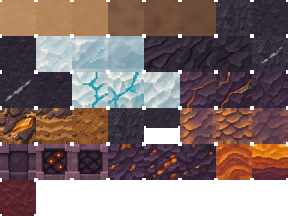
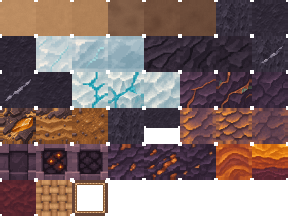
Titã: Esteira de Junco, peça fina de piso sem colisão (v0.146.0)
Etapa 3 do cultivo (ADR 0085): a esteira segue a placa de pressão do
Minecraft sem as regras de pressão. Bloco de 1/16 m na malha do terreno,
sem colisão, alvo da mira só pela faixa fina, exige piso firme (quebrar o
piso a derruba como item) e não bloqueia luz. Receita na Mesa: 3 Hastes
Secas. Ícone provisório gerado por script.

Claude-Session: https://claude.ai/code/session_01KGdgonZQ5RGGnaRzTSYEwp

Changed region(s): [[0.125, 0.8333, 0.375, 1.0]]

diff --git a/src/titan/voxel.ts b/src/titan/voxel.ts
@@ -22,17 +22,17 @@ export const REGION_MIN = REGION_LEGACY.min;
 export const REGION_MAX = REGION_LEGACY.max;
 
 /** Ids de bloco (um byte; 0 = ar). */
-export const T = { AIR: 0, SAND: 1, DAMP_SAND: 2, DARK_ROCK: 3, FROST: 4, LAKE: 5, BEDROCK: 6, LANTERN: 7, VEIN_ROCK: 8, VEIN_FROST: 9, WORKBENCH: 10, EMBER: 11, SLAB: 12, WORKBENCH_90: 13, WORKBENCH_180: 14, WORKBENCH_270: 15, SLAB_TOP: 16, SLAB_DOUBLE: 17, MARCO: 18, MARCO_90: 19, MARCO_180: 20, MARCO_270: 21, PAINEL: 22, PAINEL_Z: 23, VEIN_COPPER: 24, BRAZIER: 25, BRAZIER_LIT: 26, CARAPACE: 27, EMBER_VEIN: 28, EMBER_BLOCK: 29 } as const;
+export const T = { AIR: 0, SAND: 1, DAMP_SAND: 2, DARK_ROCK: 3, FROST: 4, LAKE: 5, BEDROCK: 6, LANTERN: 7, VEIN_ROCK: 8, VEIN_FROST: 9, WORKBENCH: 10, EMBER: 11, SLAB: 12, WORKBENCH_90: 13, WORKBENCH_180: 14, WORKBENCH_270: 15, SLAB_TOP: 16, SLAB_DOUBLE: 17, MARCO: 18, MARCO_90: 19, MARCO_180: 20, MARCO_270: 21, PAINEL: 22, PAINEL_Z: 23, VEIN_COPPER: 24, BRAZIER: 25, BRAZIER_LIT: 26, CARAPACE: 27, EMBER_VEIN: 28, EMBER_BLOCK: 29, MAT: 30 } as const;
 /** Maior id de bloco (o carregamento do save descarta ids acima disto). */
-export const T_MAX = T.EMBER_BLOCK;
+export const T_MAX = T.MAT;
 export type TitanBlock = (typeof T)[keyof typeof T];
 
-export const BLOCK_NAMES: Record<number, string> = { 1: 'Areia ocre', 2: 'Areia úmida', 3: 'Rocha escura', 4: 'Gelo fosco', 5: 'Lago escuro', 6: 'Rocha-mãe', 7: 'Lanterna da margem', 8: 'Rocha com veio', 9: 'Gelo com veio', 10: 'Mesa de Trabalho', 11: 'Brasa de âmbar', 12: 'Laje de rocha', 13: 'Mesa de Trabalho', 14: 'Mesa de Trabalho', 15: 'Mesa de Trabalho', 16: 'Laje de rocha', 17: 'Laje dupla de rocha', 18: 'Marco de Margem', 19: 'Marco de Margem', 20: 'Marco de Margem', 21: 'Marco de Margem', 22: 'Painel de Junco', 23: 'Painel de Junco', 24: 'Veio de Cobre de Duna', 25: 'Braseiro de Rocha', 26: 'Braseiro de Rocha (aceso)', 27: 'Revestimento de Carapaça', 28: 'Veio de Âmbar', 29: 'Bloco de Âmbar Compactado' };
+export const BLOCK_NAMES: Record<number, string> = { 1: 'Areia ocre', 2: 'Areia úmida', 3: 'Rocha escura', 4: 'Gelo fosco', 5: 'Lago escuro', 6: 'Rocha-mãe', 7: 'Lanterna da margem', 8: 'Rocha com veio', 9: 'Gelo com veio', 10: 'Mesa de Trabalho', 11: 'Brasa de âmbar', 12: 'Laje de rocha', 13: 'Mesa de Trabalho', 14: 'Mesa de Trabalho', 15: 'Mesa de Trabalho', 16: 'Laje de rocha', 17: 'Laje dupla de rocha', 18: 'Marco de Margem', 19: 'Marco de Margem', 20: 'Marco de Margem', 21: 'Marco de Margem', 22: 'Painel de Junco', 23: 'Painel de Junco', 24: 'Veio de Cobre de Duna', 25: 'Braseiro de Rocha', 26: 'Braseiro de Rocha (aceso)', 27: 'Revestimento de Carapaça', 28: 'Veio de Âmbar', 29: 'Bloco de Âmbar Compactado', 30: 'Esteira de Junco' };
 
 /** Sólido = colide e esconde as faces vizinhas. Ar, líquido e a lanterna (objeto pequeno que emite luz) não. */
-export const isSolid = (id: number): boolean => id !== T.AIR && id !== T.LAKE && id !== T.LANTERN && !isMarco(id);
+export const isSolid = (id: number): boolean => id !== T.AIR && id !== T.LAKE && id !== T.LANTERN && !isMarco(id) && id !== T.MAT;
 /** Alvo da mira (e do "quebrar"): sólido, lanterna ou Marco de Margem. O líquido e o ar são atravessados. */
-export const isTarget = (id: number): boolean => isSolid(id) || id === T.LANTERN || isMarco(id);
+export const isTarget = (id: number): boolean => isSolid(id) || id === T.LANTERN || isMarco(id) || id === T.MAT;
 /** Bloco que bloqueia a luz de lanterna: sólido, menos o Painel de Junco (a trama tem vãos: a luz atravessa). */
 export const blocksLight = (id: number): boolean => isSolid(id) && !isPanel(id);
 /** Célula ocupada: não aceita colocar nada (sólido ou lanterna). Líquido e ar aceitam. */
@@ -91,7 +91,13 @@ export const PANEL_HEIGHT = 0.944;
 /** Id do painel que fica de frente para o jogador: olhando ao longo de Z (norte/sul) o painel corre ao longo de X; olhando ao longo de X, ao longo de Z. */
 export const panelIdFacing = (yaw: number): number => (Math.abs(Math.cos(yaw)) >= Math.abs(Math.sin(yaw)) ? T.PAINEL : T.PAINEL_Z);
 /** Peça recolhida com um toque longo curto (0,35 s, com anel e sem rachaduras): a lanterna e as peças pequenas da margem (Marco e Painel). */
-export const isCollectBlock = (id: number): boolean => id === T.LANTERN || isMarco(id) || isPanel(id);
+export const isCollectBlock = (id: number): boolean => id === T.LANTERN || isMarco(id) || isPanel(id) || id === T.MAT;
+/**
+ * Esteira de Junco (ADR 0085): peça fina de piso, no modelo das placas de pressão do Minecraft **sem** as regras de pressão: 1/16 m de altura, sem colisão (anda-se por cima, como na
+ * lanterna e no Marco), alvo da mira pela própria caixa, exige face superior sólida abaixo e, sem o apoio, vira item. Faz parte da malha do terreno (topo = trama, laterais = borda).
+ */
+export const MAT_HEIGHT = 0.0625;
+export const isMat = (id: number): boolean => id === T.MAT;
 /** Modelo 3D (instâncias do renderer) deste bloco, ou `null`. `turn` = giro em quartos de volta ao redor de Y. */
 export function modelOf(id: number): { kind: 'workbench' | 'marco' | 'painel'; turn: number } | null {
   if (isWorkbench(id)) return { kind: 'workbench', turn: workbenchTurn(id) };
@@ -121,6 +127,7 @@ const BLOCK_TILES: Record<number, readonly [number, number, number]> = {
   [T.LAKE]: ROCK, // o líquido tem atlas próprio (ADR 0057); este tile só preenche o índice
   [T.VEIN_ROCK]: faces3('06-rocha-com-veio'), [T.VEIN_FROST]: faces3('07-gelo-com-veio'), [T.VEIN_COPPER]: faces3('08-veio-de-cobre-de-duna'), [T.EMBER]: faces3('09-deposito-de-brasa'),
   [T.SLAB]: [tileIndex('11-laje-de-rocha/topo'), tileIndex('11-laje-de-rocha/lateral'), tileIndex('11-laje-de-rocha/topo')], // a lateral tem 32 × 16 e usa a metade de cima do tile
+  [T.MAT]: [tileIndex('20-esteira-de-junco/topo'), tileIndex('20-esteira-de-junco/lateral'), tileIndex('20-esteira-de-junco/lateral')],
   [T.CARAPACE]: faces3('12-revestimento-de-carapaca'), [T.EMBER_VEIN]: faces3('18-veio-de-ambar'), [T.EMBER_BLOCK]: faces3('19-bloco-de-ambar-compactado'),
   [T.BRAZIER]: [tileIndex('17-braseiro-de-rocha/topo-apagado'), tileIndex('17-braseiro-de-rocha/lateral-comum'), tileIndex('17-braseiro-de-rocha/lateral-comum')],
   [T.BRAZIER_LIT]: [tileIndex('17-braseiro-de-rocha/topo-aceso'), tileIndex('17-braseiro-de-rocha/lateral-comum'), tileIndex('17-braseiro-de-rocha/lateral-comum')],

diff --git a/src/titan/esteira.test.ts b/src/titan/esteira.test.ts
@@ -1,0 +1,86 @@
+import { describe, expect, it } from 'vitest';
+import { breakOrCollect, matSupported, placeFromSlot } from './actions';
+import { Item, blockOfItem, itemOfBlock } from './items';
+import { meshSection } from './mesher';
+import { raycast } from './physics';
+import { recipeById } from './recipes';
+import { MemoryTitanStorage } from './save';
+import { flush, openSession } from './session';
+import { surfaceOf } from './sounds';
+import { blockHeight, blockSpan, blocksLight, isCollectBlock, isFull, isMat, isOccupied, isSolid, isTarget, MAT_HEIGHT, T, tileFor } from './voxel';
+import { sweep } from './dropTestUtil';
+
+/** Esteira de Junco (ADR 0085): peça fina de piso, sem colisão, com apoio, no modelo das placas de pressão sem a pressão. */
+const open = async (st = new MemoryTitanStorage()) => ({ st, s: await openSession(st, 42, () => 1, undefined, 2) });
+const Y = 150;
+const pad = (s: Awaited<ReturnType<typeof openSession>>, dx = 0) => { const a = s.volume.gen.arrival, x = Math.floor(a.x) + 6 + dx, z = Math.floor(a.z) + 6; s.volume.set(x, Y, z, T.DARK_ROCK); return { x, z, hit: { x, y: Y, z, nx: 0, ny: 1, nz: 0 } }; };
+const hold = (s: Awaited<ReturnType<typeof openSession>>) => { s.inventory.add(Item.ESTEIRA, 3); s.inventory.move([...Array(36).keys()].find((i) => s.inventory.get(i)?.item === Item.ESTEIRA)!, 0); };
+
+describe('esteira de junco: propriedades do bloco', () => {
+  it('fina, sem colisão, mas alvo da mira e ocupa a célula', () => {
+    expect(isMat(T.MAT)).toBe(true); expect(MAT_HEIGHT).toBe(0.0625);
+    expect(isSolid(T.MAT)).toBe(false); expect(blockSpan(T.MAT)).toEqual([0, 0]); expect(blockHeight(T.MAT)).toBe(0); expect(isFull(T.MAT)).toBe(false);
+    expect(isTarget(T.MAT)).toBe(true); expect(isOccupied(T.MAT)).toBe(true); expect(blocksLight(T.MAT)).toBe(false); expect(isCollectBlock(T.MAT)).toBe(true);
+    expect(blockOfItem(Item.ESTEIRA)).toBe(T.MAT); expect(itemOfBlock(T.MAT)).toBe(Item.ESTEIRA); expect(surfaceOf(T.MAT)).toBe('sand');
+    expect(tileFor(T.MAT, 'top')).not.toBe(tileFor(T.MAT, 'side'));
+  });
+  it('receita: 3 Hastes Secas na Mesa → 1 esteira', () => {
+    expect(recipeById('esteira')).toMatchObject({ station: 'workbench', group: 'construcao', result: { item: Item.ESTEIRA, count: 1 }, ingredients: [{ item: Item.DRY_REED, count: 3 }] });
+  });
+});
+
+describe('esteira de junco na sessão', () => {
+  it('coloca sobre piso firme e não sobre o ar nem na lateral', async () => {
+    const { s } = await open(); const f = pad(s); hold(s);
+    expect(matSupported(s, f.x, Y + 1, f.z)).toBe(true);
+    expect(placeFromSlot(s, f.hit, 0).ok).toBe(true);
+    expect(s.volume.get(f.x, Y + 1, f.z)).toBe(T.MAT);
+    expect(s.inventory.total(Item.ESTEIRA)).toBe(2);
+    expect(placeFromSlot(s, f.hit, 0).ok).toBe(false); // a célula já está ocupada
+    expect(placeFromSlot(s, { ...f.hit, nx: 1, ny: 0 }, 0)).toMatchObject({ ok: false, msg: 'A esteira precisa de piso firme' }); // ao lado: sem piso embaixo
+  });
+  it('laje inferior não é piso firme; laje superior e cubo são', async () => {
+    const { s } = await open(); const f = pad(s);
+    s.volume.set(f.x, Y, f.z, T.SLAB); expect(matSupported(s, f.x, Y + 1, f.z)).toBe(false);
+    s.volume.set(f.x, Y, f.z, T.SLAB_TOP); expect(matSupported(s, f.x, Y + 1, f.z)).toBe(true);
+    s.volume.set(f.x, Y, f.z, T.SLAB_DOUBLE); expect(matSupported(s, f.x, Y + 1, f.z)).toBe(true);
+  });
+  it('a mira acerta só a faixa fina de cima; o corpo atravessa', async () => {
+    const { s } = await open(); const f = pad(s); hold(s); placeFromSlot(s, f.hit, 0);
+    const cx = f.x + 0.5, cz = f.z + 0.5;
+    const h = raycast(s.volume, cx, Y + 3, cz, 0, -1, 0, 6, s.items);
+    expect(h).toMatchObject({ x: f.x, y: Y + 1, z: f.z, ny: 1 });
+    expect(h!.box![4]).toBeCloseTo(Y + 1 + MAT_HEIGHT, 6);
+    expect(raycast(s.volume, f.x - 2, Y + 1.5, cz, 1, 0, 0, 6, s.items)).toBeNull(); // rente ao chão mas acima de 1/16 m: o raio passa por cima da esteira
+    expect(raycast(s.volume, f.x - 2, Y + 1.03, cz, 1, 0, 0, 6, s.items)).toMatchObject({ x: f.x, y: Y + 1, nx: -1 }); // dentro da faixa fina: acerta a lateral
+    expect(s.volume.bodySpan(f.x, Y + 1, f.z)).toEqual([0, 0]); // sem colisão
+  });
+  it('a malha é fina: o topo a 1/16 m e laterais só nas bordas livres', async () => {
+    const { s } = await open(); const f = pad(s); hold(s); placeFromSlot(s, f.hit, 0);
+    const cx = Math.floor(f.x / 16), cz = Math.floor(f.z / 16), sy = Math.floor((Y + 1 - -64) / 16);
+    const m = meshSection(s.volume, cx, sy, cz).opaque!;
+    const ys: number[] = []; for (let i = 1; i < m.pos.length; i += 3) ys.push(m.pos[i]);
+    const inCell = [...Array(m.pos.length / 3).keys()].filter((i) => m.pos[i * 3] >= f.x && m.pos[i * 3] <= f.x + 1 && m.pos[i * 3 + 2] >= f.z && m.pos[i * 3 + 2] <= f.z + 1 && m.pos[i * 3 + 1] > Y + 1 - 1e-6 && m.pos[i * 3 + 1] <= Y + 1 + MAT_HEIGHT + 1e-6);
+    expect(inCell.length).toBeGreaterThanOrEqual(4 + 4 * 4); // topo (4) + 4 laterais (16)
+    expect(Math.max(...inCell.map((i) => m.pos[i * 3 + 1]))).toBeCloseTo(Y + 1 + MAT_HEIGHT, 6);
+    expect(ys.length).toBeGreaterThan(0);
+  });
+  it('quebrar a esteira devolve o item no chão; quebrar o piso derruba a esteira', async () => {
+    const { s } = await open(); const f = pad(s); hold(s); placeFromSlot(s, f.hit, 0);
+    const mh = raycast(s.volume, f.x + 0.5, Y + 3, f.z + 0.5, 0, -1, 0, 6, s.items)!;
+    expect(breakOrCollect(s, mh).ok).toBe(true); sweep(s);
+    expect(s.volume.get(f.x, Y + 1, f.z)).toBe(T.AIR); expect(s.inventory.total(Item.ESTEIRA)).toBe(3);
+    placeFromSlot(s, f.hit, 0);
+    expect(breakOrCollect(s, f.hit).ok).toBe(true); // o piso
+    expect(s.volume.get(f.x, Y + 1, f.z)).toBe(T.AIR);
+    expect([...s.drops.values()].some((d) => d.item === Item.ESTEIRA)).toBe(true);
+    expect(sweep(s)).toBeGreaterThanOrEqual(1); // a esteira (e o bloco do piso) caíram até o chão e se recolhem por proximidade
+    expect(s.inventory.total(Item.ESTEIRA)).toBe(3);
+  });
+  it('persiste ao reabrir (edição de chunk)', async () => {
+    const { st, s } = await open(); const f = pad(s); hold(s); placeFromSlot(s, f.hit, 0);
+    await flush(st, s);
+    const r = await openSession(st, null, () => 1);
+    expect(r.volume.get(f.x, Y + 1, f.z)).toBe(T.MAT);
+  });
+});

diff --git a/src/titan/items.ts b/src/titan/items.ts
@@ -4,16 +4,16 @@ import { isMarco, isPanel, isWorkbench, T } from './voxel';
  * Itens do Titã (ADR 0040). O id é o índice do sprite no atlas da hotbar + 1 (`render/art/titan.ts`): a ordem do atlas não depende da ordem dos espaços da barra.
  * Os quatro primeiros coincidem com os ids de bloco `T.SAND … T.FROST`.
  */
-export const Item = { SAND: 1, DAMP_SAND: 2, DARK_ROCK: 3, FROST: 4, ROCK_SHARD: 5, FROST_SHARD: 6, CAPSULE: 7, LANTERN: 8, WORKBENCH: 9, ICE_LENS: 10, EMBER: 11, GLASS_REED: 12, SLAB: 13, MARCO: 14, PAINEL: 15, NOZ: 16, COPPER_SHARD: 17, COPPER_INGOT: 18, DRY_REED: 19, STONE_PICK: 20, BRAZIER: 21, STONE_DAGGER: 22, COPPER_PICK: 23, COPPER_DAGGER: 24, PLATE: 25, CARAPACE: 26, RAW_MEAT: 27, COOKED_MEAT: 28, EMBER_BLOCK: 29, NOZ_TORRADA: 30 } as const;
+export const Item = { SAND: 1, DAMP_SAND: 2, DARK_ROCK: 3, FROST: 4, ROCK_SHARD: 5, FROST_SHARD: 6, CAPSULE: 7, LANTERN: 8, WORKBENCH: 9, ICE_LENS: 10, EMBER: 11, GLASS_REED: 12, SLAB: 13, MARCO: 14, PAINEL: 15, NOZ: 16, COPPER_SHARD: 17, COPPER_INGOT: 18, DRY_REED: 19, STONE_PICK: 20, BRAZIER: 21, STONE_DAGGER: 22, COPPER_PICK: 23, COPPER_DAGGER: 24, PLATE: 25, CARAPACE: 26, RAW_MEAT: 27, COOKED_MEAT: 28, EMBER_BLOCK: 29, NOZ_TORRADA: 30, ESTEIRA: 31 } as const;
 export type ItemId = (typeof Item)[keyof typeof Item];
 
 export const ITEM_NAMES: Record<number, string> = {
   1: 'Areia ocre', 2: 'Areia úmida', 3: 'Rocha escura', 4: 'Gelo fosco',
-  5: 'Fragmento de rocha', 6: 'Fragmento de gelo', 7: 'Cápsula de luz', 8: 'Lanterna da margem', 9: 'Mesa de Trabalho', 10: 'Lente de Gelo', 11: 'Brasa de âmbar', 12: 'Junco de vidro', 13: 'Laje de rocha', 14: 'Marco de Margem', 15: 'Painel de Junco', 16: 'Noz de Duna', 17: 'Fragmento de Cobre de Duna', 18: 'Lingote de Cobre de Duna', 19: 'Haste Seca de Junco', 20: 'Picareta de Rocha', 21: 'Braseiro de Rocha', 22: 'Adaga de Rocha', 23: 'Picareta de Cobre', 24: 'Adaga de Cobre', 25: 'Placa de Carapaça', 26: 'Revestimento de Carapaça', 27: 'Carne Crua de Farejador', 28: 'Carne Assada de Farejador', 29: 'Bloco de Âmbar Compactado', 30: 'Noz Torrada',
+  5: 'Fragmento de rocha', 6: 'Fragmento de gelo', 7: 'Cápsula de luz', 8: 'Lanterna da margem', 9: 'Mesa de Trabalho', 10: 'Lente de Gelo', 11: 'Brasa de âmbar', 12: 'Junco de vidro', 13: 'Laje de rocha', 14: 'Marco de Margem', 15: 'Painel de Junco', 16: 'Noz de Duna', 17: 'Fragmento de Cobre de Duna', 18: 'Lingote de Cobre de Duna', 19: 'Haste Seca de Junco', 20: 'Picareta de Rocha', 21: 'Braseiro de Rocha', 22: 'Adaga de Rocha', 23: 'Picareta de Cobre', 24: 'Adaga de Cobre', 25: 'Placa de Carapaça', 26: 'Revestimento de Carapaça', 27: 'Carne Crua de Farejador', 28: 'Carne Assada de Farejador', 29: 'Bloco de Âmbar Compactado', 30: 'Noz Torrada', 31: 'Esteira de Junco',
 };
 /** Pilhas: blocos, fragmentos, lente e brasa até 64; cápsula (legada, id reservado), lanterna e mesa até 1 (a mesa 1 por espaço: é uma peça grande). */
 export const maxStack = (item: number): number => (item === Item.CAPSULE || item === Item.LANTERN || item === Item.WORKBENCH || isTool(item) ? 1 : 64);
-export const isItem = (n: unknown): n is ItemId => Number.isInteger(n) && (n as number) >= 1 && (n as number) <= 30;
+export const isItem = (n: unknown): n is ItemId => Number.isInteger(n) && (n as number) >= 1 && (n as number) <= 31;
 
 /** Bloco que o item coloca (blocos e lanterna); fragmentos e cápsula não se colocam. */
 export function blockOfItem(item: number): number | null {
@@ -25,6 +25,7 @@ export function blockOfItem(item: number): number | null {
   if (item === Item.PAINEL) return T.PAINEL; // o eixo vem do olhar de quem coloca
   if (item === Item.CARAPACE) return T.CARAPACE;
   if (item === Item.EMBER_BLOCK) return T.EMBER_BLOCK;
+  if (item === Item.ESTEIRA) return T.MAT; // peça fina de piso (ADR 0085): precisa de apoio sólido em baixo
   if (item === Item.BRAZIER) return T.BRAZIER; // sempre apagado: a Brasa de Âmbar o acende (ADR 0065)
   return null;
 }
@@ -39,6 +40,7 @@ export function itemOfBlock(block: number): ItemId | null {
   if (isPanel(block)) return Item.PAINEL;
   if (block === T.CARAPACE) return Item.CARAPACE;
   if (block === T.EMBER_BLOCK) return Item.EMBER_BLOCK;
+  if (block === T.MAT) return Item.ESTEIRA;
   if (block === T.BRAZIER || block === T.BRAZIER_LIT) return Item.BRAZIER; // o aceso volta apagado (a carga se perde)
   if (block === T.SLAB || block === T.SLAB_TOP || block === T.SLAB_DOUBLE) return Item.SLAB; // a laje dupla devolve 2 (`dropCountOf`)
   return null;

diff --git a/src/titan/mesher.ts b/src/titan/mesher.ts
@@ -1,6 +1,6 @@
 import type { TitanVolume } from './volume';
 import { LIGHT_MAX } from './light';
-import { isFull, isModelBlock, isSlab, SECTION, T, tileFor, type Face, Y_MIN } from './voxel';
+import { isFull, isModelBlock, isSlab, MAT_HEIGHT, SECTION, T, tileFor, type Face, Y_MIN } from './voxel';
 
 /**
  * Malha de uma seção 16³ (ADR 0039): só faces expostas, lendo os vizinhos do outro lado das bordas (cópia com margem de 1 bloco), para a
@@ -53,17 +53,18 @@ const warm = (level: number): number => (level > 0 ? Math.pow(level / LIGHT_MAX,
 class Builder {
   pos: number[] = []; uv: number[] = []; col: number[] = []; glow: number[] = []; idx: number[] = [];
   /** `level` = luz de lanterna na célula que a face enxerga. */
-  face(x: number, y: number, z: number, fi: number, tile: number, tint: number, level = 0, emit = 0, half: 0 | 1 | 2 = 0, uv?: readonly [number, number, number, number]): void {
+  face(x: number, y: number, z: number, fi: number, tile: number, tint: number, level = 0, emit = 0, half: 0 | 1 | 2 | 3 = 0, uv?: readonly [number, number, number, number]): void {
     const F = FACES[fi];
     let [u0, v0, u1, v1] = uv ?? tileUV(tile);
     // laje (meia altura): a lateral usa só os 8 px de cima do tile (16 × 8 px: mesma densidade de texels do cubo) e o topo/base ficam inteiros
-    if (half && F.f === 'side') v0 = v1 - (v1 - v0) / 2;
+    if (half === 3 && F.f === 'side') v0 = v1 - (v1 - v0) * MAT_HEIGHT; // esteira: a lateral é só a faixa de cima da borda (1/16 m)
+    else if (half && F.f === 'side') v0 = v1 - (v1 - v0) / 2;
     const base = this.pos.length / 3;
     const shade = F.light * tint;
     const w = warm(level);
     for (let k = 0; k < 4; k++) {
       const c = F.c[k];
-      this.pos.push(x + c[0], y + (half === 2 ? 0.5 + c[1] * 0.5 : half === 1 ? c[1] * 0.5 : c[1]), z + c[2]); // half: 1 = laje inferior, 2 = superior
+      this.pos.push(x + c[0], y + (half === 3 ? c[1] * MAT_HEIGHT : half === 2 ? 0.5 + c[1] * 0.5 : half === 1 ? c[1] * 0.5 : c[1]), z + c[2]); // half: 1 = laje inferior, 2 = superior
       this.uv.push(CORNER_UV[k][0] ? u1 : u0, CORNER_UV[k][1] ? v1 : v0);
       this.col.push(shade, shade, shade);
       this.glow.push(w + emit, w * 0.72 + emit * 0.6, w * 0.38 + emit * 0.25);
@@ -102,6 +103,10 @@ export function meshSection(vol: TitanVolume, cx: number, sy: number, cz: number
         // só a superfície (e bordas expostas ao ar). Atlas próprio do lago (ADR 0057, 128 × 32: topo, topo 2, lateral): o topo usa a célula 0; a lateral exposta, a célula 2, inteira na face que
         // encontra a superfície e sem a faixa clara de cima (75 % de baixo) nas faces de baixo, quando há líquido em cima.
         if (nb === T.AIR || nb === T.LANTERN) lq.face(x0 + lx, y0 + ly, z0 + lz, fi, tileFor(id, 'top'), 1, level, 0, 0, fi === 2 || fi === 3 ? LAKE_TOP_UV : at(lx, ly + 1, lz) === T.LAKE ? LAKE_SIDE_DEEP_UV : LAKE_SIDE_UV);
+      } else if (id === T.MAT) {
+        // esteira (ADR 0085): fina, 1/16 m. O topo sempre aparece; a base nunca (há piso firme); as laterais só sem cubo inteiro nem outra esteira ao lado.
+        const show = fi === 2 || (fi !== 3 && !isFull(nb) && nb !== id);
+        if (show) op.face(x0 + lx, y0 + ly, z0 + lz, fi, tileFor(id, FACES[fi].f), 1, level, 0, 3);
       } else if (isSlab(id)) {
         // laje inferior: o topo sempre aparece (fica em y + 0,5); a base some sob cubo inteiro ou laje superior; as laterais só sem cubo inteiro nem outra laje inferior ao lado.
         // laje superior: a base sempre aparece (y + 0,5); o topo some sob cubo inteiro ou laje inferior; as laterais só sem cubo inteiro nem outra laje superior ao lado.

diff --git a/src/titan/actions.ts b/src/titan/actions.ts
@@ -3,7 +3,7 @@ import { hash2 } from '../world/random';
 import { NUT_REGROW_S, NUT_YIELD } from './nuts';
 import { resolveSlabPlacement } from './slabs';
 import { accepts, type FurnaceSlot, type FurnaceState, furnaceKey, newFurnace } from './furnace';
-import { blockSpan, isBrazier, isCopperVein, isAmberVein, isSolid, isVein, marcoId, marcoTurnFacing, panelIdFacing, T, workbenchId, workbenchTurnFacing, Y_MIN } from './voxel';
+import { blockSpan, isBrazier, isMat, isCopperVein, isAmberVein, isSolid, isVein, marcoId, marcoTurnFacing, panelIdFacing, T, workbenchId, workbenchTurnFacing, Y_MIN } from './voxel';
 import { BODY_HALF, BODY_HEIGHT, canPlaceAt, newBody, type Hit } from './physics';
 import type { TitanSession } from './session';
 import { eat, revive } from './vitals';
@@ -72,6 +72,15 @@ function plantCrop(s: TitanSession, hit: Hit, slot: number, species: Species): A
   s.inventory.consume(slot);
   s.metaRev++;
   return { ok: true };
+}
+
+/** A célula tem piso firme para uma esteira? O bloco de baixo precisa ocupar a célula até o topo (cubo inteiro, laje superior ou dupla). */
+export const matSupported = (s: TitanSession, x: number, y: number, z: number): boolean => isSolid(s.volume.get(x, y - 1, z)) && blockSpan(s.volume.get(x, y - 1, z))[1] >= 1;
+
+/** O piso de uma esteira foi quebrado: a esteira sai do lugar e cai como item solto. */
+function releaseMat(s: TitanSession, x: number, y: number, z: number): void {
+  if (!isMat(s.volume.get(x, y, z)) || !s.volume.remove(x, y, z)) return;
+  spillBlock(s, Item.ESTEIRA, 1, x, y, z);
 }
 
 /** O apoio de uma planta cultivada foi quebrado: ela some e devolve a muda como item solto. */
@@ -239,6 +248,7 @@ function breakOrCollectBlock(s: TitanSession, hit: Hit): ActionResult {
   if (isVein(block)) dropShard(s, block === T.VEIN_ROCK ? 5 : 6, x, y, z);
   releaseReed(s, reed, x, y + 1, z);
   releaseCrop(s, x, y + 1, z);
+  releaseMat(s, x, y + 1, z);
   return { ok: true };
 }
 
@@ -344,6 +354,7 @@ export function placeFromSlot(s: TitanSession, hit: Hit, slot: number): ActionRe
     block = r.block;
   }
   const x = hit.x + hit.nx, y = hit.y + hit.ny, z = hit.z + hit.nz;
+  if (block === T.MAT && !matSupported(s, x, y, z)) return { ok: false, msg: 'A esteira precisa de piso firme' }; // ADR 0085: face superior sólida embaixo
   const occupied = { at: (cx: number, cy: number, cz: number): string | null => s.items.at(cx, cy, cz) ?? [...s.drops.values()].find((d) => d.x === cx && d.y === cy && d.z === cz)?.id ?? null };
   if (!canPlaceAt(s.volume, s.body, x, y, z, occupied, blockSpan(block)) || !s.volume.place(x, y, z, block)) return { ok: false };
   s.inventory.consume(slot);

diff --git a/src/titan/physics.ts b/src/titan/physics.ts
@@ -1,7 +1,7 @@
 import { lanternBox, rayBox, type Box } from './lantern';
 import type { TitanVolume } from './volume';
 import { modelBox } from './models';
-import { isMarco, isOccupied, isPanel, isTarget, T, Y_MAX, Y_MIN } from './voxel';
+import { isMarco, isOccupied, isPanel, isTarget, MAT_HEIGHT, T, Y_MAX, Y_MIN } from './voxel';
 
 /** Corpo do jogador: caixa de 0,6 × 1,8 × 0,6 m, olhos a 1,62 m dos pés. Pés em y (base do corpo). */
 export const BODY_HALF = 0.3;
@@ -158,6 +158,10 @@ export function raycast(v: TitanVolume, ox: number, oy: number, oz: number, dx: 
         // Marco e Painel: a mira acerta a caixa do modelo (com folga de toque); fora dela o raio segue e pega o que está atrás
         const h = rayBox(ox, oy, oz, dx, dy, dz, modelBox(id, x, y, z, pad));
         if (h && h.t <= reach) return { x, y, z, nx: h.nx, ny: h.ny, nz: h.nz, hy: oy + dy * h.t - y, box: modelBox(id, x, y, z) };
+      } else if (id === T.MAT) {
+        // a esteira é fina (1/16 m): a mira acerta só a caixa dela (com folga de toque para cima) e o raio segue por baixo e pelos lados
+        const h = rayBox(ox, oy, oz, dx, dy, dz, [x, y, z, x + 1, y + MAT_HEIGHT + pad, z + 1]);
+        if (h && h.t <= reach) return { x, y, z, nx: h.nx, ny: h.ny, nz: h.nz, hy: oy + dy * h.t - y, box: [x, y, z, x + 1, y + MAT_HEIGHT, z + 1] };
       } else if (id === T.SLAB || id === T.SLAB_TOP) {
         // a laje ocupa só a metade de baixo da célula: a mira acerta essa caixa (o topo fica em y + 0,5) e o raio segue por cima dela
         const lo = id === T.SLAB ? 0 : 0.5, box: Box = [x, y + lo, z, x + 1, y + lo + 0.5, z + 1], h = rayBox(ox, oy, oz, dx, dy, dz, box);

diff --git a/src/titan/recipes.test.ts b/src/titan/recipes.test.ts
@@ -9,7 +9,7 @@ const snapshot = (i: Inventory): string => JSON.stringify(i.toData());
 
 describe('catálogo de receitas (ADR 0045)', () => {
   it('o catálogo tem mesa (4 rochas, pessoal), lente (1 fragmento de gelo, mesa), lanterna (2 fragmentos de rocha + lente + brasa, mesa) laje (3 rochas → 6 lajes, mesa), Marco de Margem e Painel de Junco (mesa)', () => {
-    expect(RECIPES.map((r) => r.id)).toEqual(['mesa', 'lente', 'lanterna', 'marco', 'painel', 'laje', 'picareta-rocha', 'braseiro', 'revestimento', 'lingote-cobre', 'noz-torrada', 'carne-assada', 'picareta-cobre', 'adaga-rocha', 'adaga-cobre', 'ambar-compactado', 'ambar-desmontar']);
+    expect(RECIPES.map((r) => r.id)).toEqual(['mesa', 'lente', 'lanterna', 'marco', 'painel', 'laje', 'picareta-rocha', 'braseiro', 'revestimento', 'lingote-cobre', 'esteira', 'noz-torrada', 'carne-assada', 'picareta-cobre', 'adaga-rocha', 'adaga-cobre', 'ambar-compactado', 'ambar-desmontar']);
     expect(recipeById('marco')).toMatchObject({ station: 'workbench', group: 'construcao', result: { item: Item.MARCO, count: 1 }, ingredients: [{ item: Item.ROCK_SHARD, count: 1 }, { item: Item.GLASS_REED, count: 1 }] });
     expect(recipeById('painel')).toMatchObject({ station: 'workbench', group: 'construcao', result: { item: Item.PAINEL, count: 2 }, ingredients: [{ item: Item.GLASS_REED, count: 2 }, { item: Item.DARK_ROCK, count: 1 }] });
     expect(recipeById('laje')).toMatchObject({ station: 'workbench', result: { item: Item.SLAB, count: 6 }, ingredients: [{ item: Item.DARK_ROCK, count: 3 }] });

diff --git a/src/titan/recipes.ts b/src/titan/recipes.ts
@@ -25,6 +25,7 @@ export const RECIPES: readonly Recipe[] = [
   { id: 'braseiro', name: 'Braseiro de Rocha', group: 'utilidades', result: { item: Item.BRAZIER, count: 1 }, ingredients: [{ item: Item.DARK_ROCK, count: 4 }], station: 'workbench' },
   { id: 'revestimento', name: 'Revestimento de Carapaça', group: 'construcao', result: { item: Item.CARAPACE, count: 2 }, ingredients: [{ item: Item.PLATE, count: 1 }, { item: Item.DARK_ROCK, count: 1 }], station: 'workbench' },
   { id: 'lingote-cobre', name: 'Lingote de Cobre de Duna', group: 'materiais', result: { item: Item.COPPER_INGOT, count: 1 }, ingredients: [{ item: Item.COPPER_SHARD, count: 2 }], station: 'brazier' },
+  { id: 'esteira', name: 'Esteira de Junco', group: 'construcao', result: { item: Item.ESTEIRA, count: 1 }, ingredients: [{ item: Item.DRY_REED, count: 3 }], station: 'workbench' },
   { id: 'noz-torrada', name: 'Noz Torrada', group: 'materiais', result: { item: Item.NOZ_TORRADA, count: 1 }, ingredients: [{ item: Item.NOZ, count: 1 }], station: 'brazier' },
   { id: 'carne-assada', name: 'Carne Assada de Farejador', group: 'materiais', result: { item: Item.COOKED_MEAT, count: 1 }, ingredients: [{ item: Item.RAW_MEAT, count: 1 }], station: 'brazier' },
   { id: 'picareta-cobre', name: 'Picareta de Cobre', group: 'ferramentas', result: { item: Item.COPPER_PICK, count: 1 }, ingredients: [{ item: Item.COPPER_INGOT, count: 3 }, { item: Item.DRY_REED, count: 2 }], station: 'workbench' },

diff --git a/src/titan/sounds.ts b/src/titan/sounds.ts
@@ -9,7 +9,7 @@ export type SurfaceMaterial = 'rock' | 'sand' | 'ice';
 /** Material sonoro de um bloco (quebra, colocação e passos); `null` = silêncio (ar, líquido, lanterna). Rocha: escura, veio, laje, mesa e rocha-mãe; areia: ocre e úmida; gelo: fosco, veio e brasa de âmbar (cristal). */
 export function surfaceOf(block: number | undefined): SurfaceMaterial | null {
   switch (block) {
-    case T.SAND: case T.DAMP_SAND: case T.PAINEL: case T.PAINEL_Z: return 'sand'; // o painel é um trançado de junco sobre base de basalto: soa abafado
+    case T.SAND: case T.DAMP_SAND: case T.PAINEL: case T.PAINEL_Z: case T.MAT: return 'sand'; // o painel é um trançado de junco sobre base de basalto: soa abafado
     case T.MARCO: case T.MARCO_90: case T.MARCO_180: case T.MARCO_270: return 'rock';
     case T.FROST: case T.VEIN_FROST: case T.EMBER: case T.EMBER_VEIN: return 'ice';
     case T.DARK_ROCK: case T.VEIN_ROCK: case T.VEIN_COPPER: case T.BRAZIER: case T.BRAZIER_LIT: case T.CARAPACE: case T.EMBER_BLOCK: case T.SLAB: case T.SLAB_TOP: case T.SLAB_DOUBLE: case T.BEDROCK: case T.WORKBENCH: case T.WORKBENCH_90: case T.WORKBENCH_180: case T.WORKBENCH_270: return 'rock';

diff --git a/src/titan/mesher.test.ts b/src/titan/mesher.test.ts
@@ -15,8 +15,8 @@ describe('malha por seção', () => {
     const [, w0, , w1] = tileUV(17); // 2.ª linha (índice 8..15) e a 3.ª (16..23): linha 2, coluna 1
     expect((1 - w1) * H).toBeCloseTo(2 * 36 + 2, 6); expect((1 - w0) * H).toBeCloseTo(2 * 36 + 34, 6);
   });
-  it('o atlas de terreno cobre todos os tiles do tiles.json com 41 entradas únicas', () => {
-    expect(new Set(tilesCfg.tiles).size).toBe(tilesCfg.tiles.length); expect(tilesCfg.tiles).toHaveLength(41); expect(tilesCfg.cols * tilesCfg.cols).toBeGreaterThanOrEqual(tilesCfg.tiles.length);
+  it('o atlas de terreno cobre todos os tiles do tiles.json com 43 entradas únicas', () => {
+    expect(new Set(tilesCfg.tiles).size).toBe(tilesCfg.tiles.length); expect(tilesCfg.tiles).toHaveLength(43); expect(tilesCfg.cols * tilesCfg.cols).toBeGreaterThanOrEqual(tilesCfg.tiles.length);
   });
   it('seção de ar não gera malha; a da superfície gera faces e o lago tem malha própria', () => {
     const g = new TitanGenerator(42), v = new TitanVolume(g);

diff --git a/src/titan/margem.test.ts b/src/titan/margem.test.ts
@@ -29,7 +29,7 @@ describe('Marco de Margem e Painel de Junco: ids, modelos e regras (ADR 0058)', 
     expect(modelOf(T.PAINEL)).toEqual({ kind: 'painel', turn: 0 }); expect(modelOf(T.PAINEL_Z)).toEqual({ kind: 'painel', turn: 1 });
     expect(modelOf(T.DARK_ROCK)).toBeNull(); expect(blocksLight(T.DARK_ROCK)).toBe(true);
     expect(blockOfItem(Item.MARCO)).toBe(T.MARCO); expect(blockOfItem(Item.PAINEL)).toBe(T.PAINEL);
-    expect(isItem(Item.MARCO) && isItem(Item.PAINEL)).toBe(true); expect(isItem(30)).toBe(true); expect(isItem(31)).toBe(false);
+    expect(isItem(Item.MARCO) && isItem(Item.PAINEL)).toBe(true); expect(isItem(31)).toBe(true); expect(isItem(32)).toBe(false);
     expect(breakTotalMs('lantern', T.MARCO)).toBe(350); expect(breakTotalMs('block', T.PAINEL)).toBe(350);
     expect(surfaceOf(T.MARCO)).toBe('rock'); expect(surfaceOf(T.PAINEL)).toBe('sand');
   });

diff --git a/src/titan/volume.ts b/src/titan/volume.ts
@@ -107,7 +107,7 @@ export class TitanVolume {
 
   /** Coloca um sólido na célula (ar ou líquido; o líquido é deslocado, mas continua na base para voltar depois). */
   place(x: number, y: number, z: number, id: number): boolean {
-    if (!isSolid(id) && id !== T.LANTERN && !isMarco(id)) return false;
+    if (!isSolid(id) && id !== T.LANTERN && !isMarco(id) && id !== T.MAT) return false;
     if (isOccupied(this.get(x, y, z))) return false;
     return this.set(x, y, z, id);
   }
